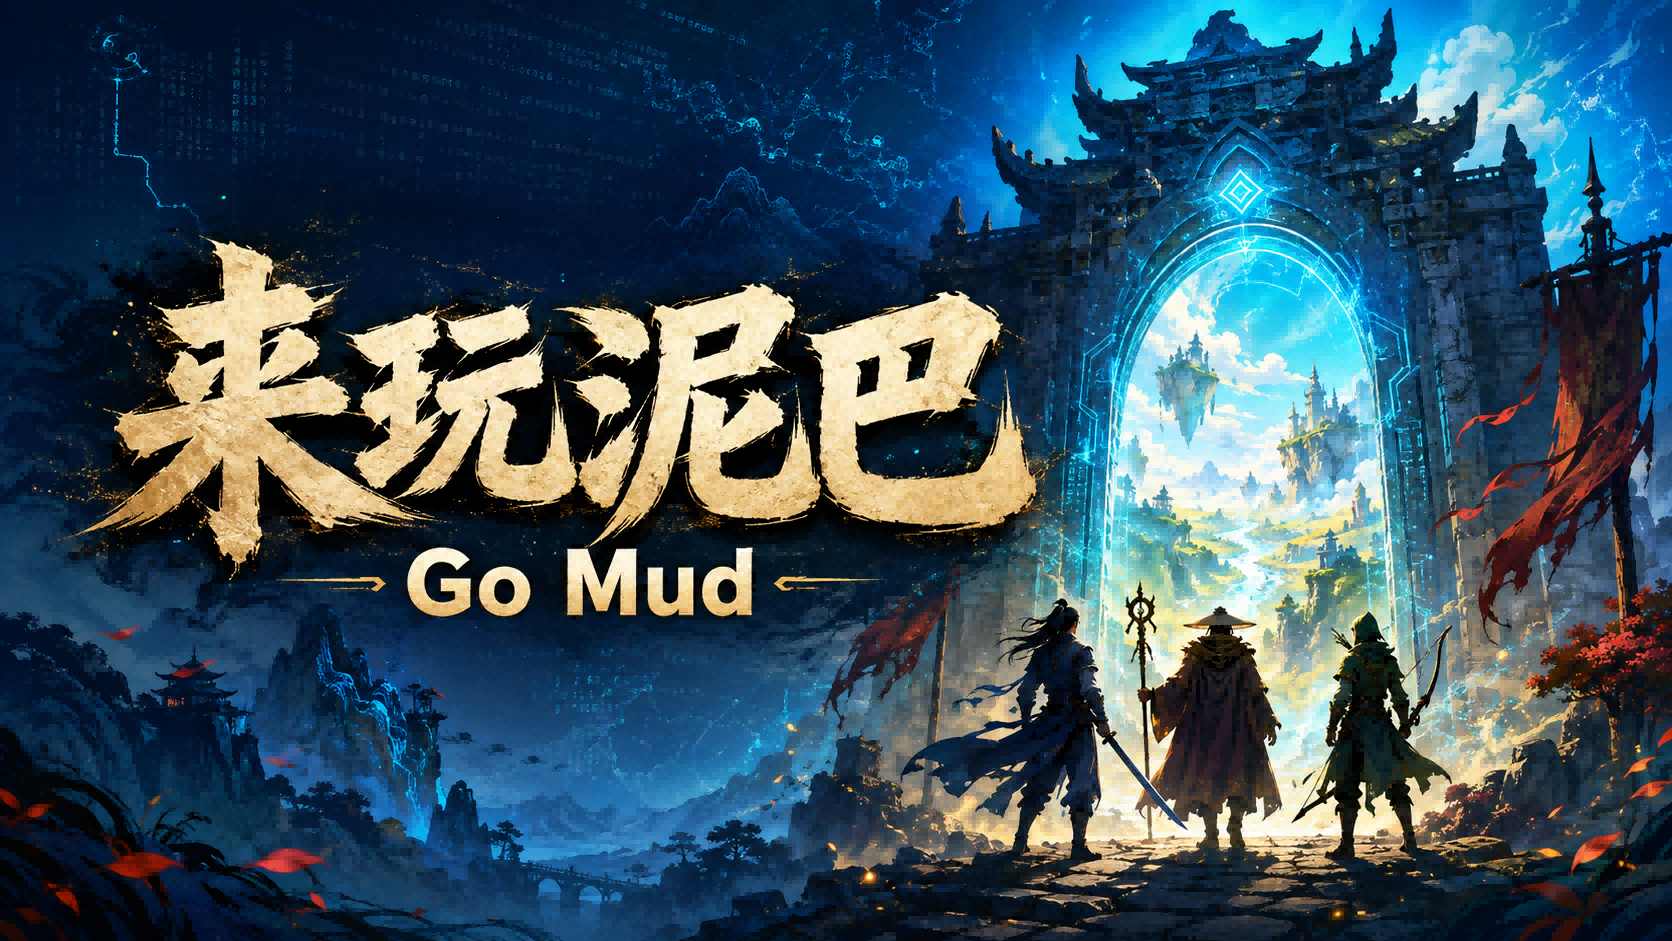
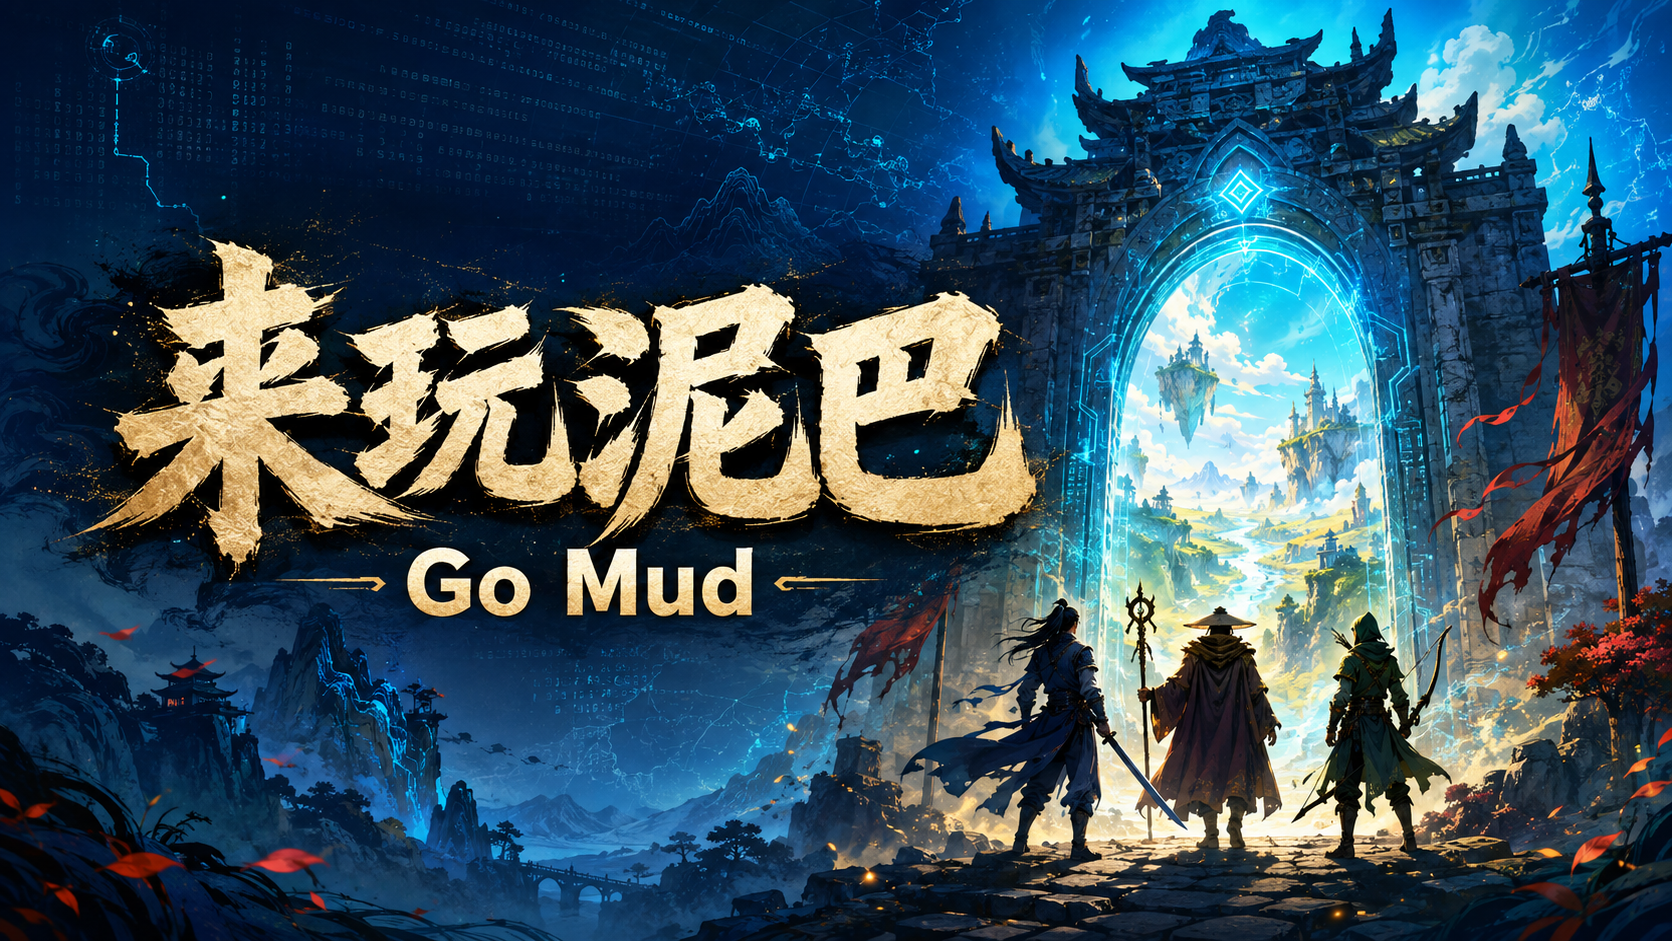
来玩泥巴V1.01
修改了banner设置

diff --git a/server.js b/server.js
@@ -14,6 +14,7 @@ const SESSION_TTL = 12 * 60 * 60 * 1000;
 const PLAYER_TTL = 24 * 60 * 60 * 1000;
 const MAX_BODY = 8 * 1024 * 1024;
 const DEFAULT_GAME_ID = 'ponan-longshe';
+const DEFAULT_BANNER = '/gomudbanner.png';
 const playerSessions = new Map();
 const adminSessions = new Map();
 const mime = { '.html':'text/html; charset=utf-8','.css':'text/css; charset=utf-8','.js':'text/javascript; charset=utf-8','.json':'application/json; charset=utf-8','.png':'image/png','.jpg':'image/jpeg','.jpeg':'image/jpeg','.webp':'image/webp','.svg':'image/svg+xml; charset=utf-8' };
@@ -58,7 +59,8 @@ async function body(req){let raw='';for await(const chunk of req){raw+=chunk;if(
 function safePlayer(req){const token=cookies(req).mud_session,s=playerSessions.get(token);if(!s||Date.now()-s.lastSeen>PLAYER_TTL){if(token)playerSessions.delete(token);return null;}s.lastSeen=Date.now();return s;}
 function safeAdmin(req){const token=cookies(req).mud_admin,s=adminSessions.get(token);if(!s||Date.now()-s.lastSeen>SESSION_TTL){if(token)adminSessions.delete(token);return null;}s.lastSeen=Date.now();return s;}
 function clamp(n,min,max){return Math.max(min,Math.min(max,Number(n)));}
-function gamePublic(g){return {id:g.id,name:g.name,banner:g.banner||'/default-banner.svg',description:g.description,paused:Boolean(g.paused)};}
+function bannerOf(g){return !g.banner||g.banner==='/default-banner.svg'?DEFAULT_BANNER:g.banner;}
+function gamePublic(g){return {id:g.id,name:g.name,banner:bannerOf(g),description:g.description,paused:Boolean(g.paused)};}
 async function findGame(id,{includePaused=false}={}){const db=await load('games.json');const game=db.games.find(x=>x.id===id);return game&&(!game.paused||includePaused)?game:null;}
 
 function defaultRules(){return [
@@ -105,13 +107,13 @@ async function routeApi(req,res,url){
 
   if(req.method==='POST'&&url.pathname==='/api/admin/login'){const data=await body(req),admin=await load('admin.json');if(!verifyPassword(String(data.password||''),admin.passwordHash))return fail(res,401,'管理密码错误');const token=crypto.randomBytes(32).toString('hex');adminSessions.set(token,{lastSeen:Date.now()});setCookie(res,'mud_admin',token);return send(res,200,{ok:true});}
   if(url.pathname.startsWith('/api/admin/')&&!safeAdmin(req))return fail(res,401,'管理员登录已失效');
-  if(req.method==='GET'&&url.pathname==='/api/admin/dashboard'){const [db,md,gd]=await Promise.all([load('accounts.json'),load('models.json'),load('games.json')]);return send(res,200,{ok:true,accounts:accountRows(db.accounts,gd.games),models:md.models.map(x=>({...x,apiKey:undefined,hasKey:true})),games:gd.games.map(x=>({...x,engine:undefined}))});}
+  if(req.method==='GET'&&url.pathname==='/api/admin/dashboard'){const [db,md,gd]=await Promise.all([load('accounts.json'),load('models.json'),load('games.json')]);return send(res,200,{ok:true,accounts:accountRows(db.accounts,gd.games),models:md.models.map(x=>({...x,apiKey:undefined,hasKey:true})),games:gd.games.map(x=>({...x,banner:bannerOf(x),engine:undefined}))});}
   if(req.method==='POST'&&url.pathname==='/api/admin/password'){const data=await body(req),admin=await load('admin.json');if(!verifyPassword(String(data.currentPassword||''),admin.passwordHash))return fail(res,400,'原密码不正确');if(String(data.newPassword||'').length<8)return fail(res,400,'新密码至少8位');admin.passwordHash=hashPassword(data.newPassword);await save('admin.json',admin);return send(res,200,{ok:true});}
   if(req.method==='POST'&&url.pathname==='/api/admin/models'){const data=await body(req);if(![data.name,data.baseUrl,data.model,data.apiKey].every(x=>String(x||'').trim()))return fail(res,400,'请填写完整模型信息');let parsed;try{parsed=new URL(data.baseUrl);}catch{return fail(res,400,'接口地址无效');}if(parsed.protocol!=='https:'&&!(process.env.NODE_ENV!=='production'&&parsed.protocol==='http:'))return fail(res,400,'生产环境接口必须使用 HTTPS');const md=await load('models.json'),item={id:crypto.randomUUID(),name:String(data.name).slice(0,40),baseUrl:parsed.toString().replace(/\/$/,''),model:String(data.model).slice(0,100),apiKey:encrypt(String(data.apiKey)),active:md.models.length===0,createdAt:new Date().toISOString()};md.models.push(item);await save('models.json',md);return send(res,200,{ok:true});}
   const activeMatch=url.pathname.match(/^\/api\/admin\/models\/([^/]+)\/active$/);if(req.method==='POST'&&activeMatch){const md=await load('models.json');if(!md.models.some(x=>x.id===activeMatch[1]))return fail(res,404,'模型不存在');md.models.forEach(x=>x.active=x.id===activeMatch[1]);await save('models.json',md);return send(res,200,{ok:true});}
   const modelDelete=url.pathname.match(/^\/api\/admin\/models\/([^/]+)$/);if(req.method==='DELETE'&&modelDelete){const md=await load('models.json');md.models=md.models.filter(x=>x.id!==modelDelete[1]);await save('models.json',md);return send(res,200,{ok:true});}
   if(req.method==='POST'&&url.pathname==='/api/admin/games'){
-    const data=await body(req),fields=cleanGameInput(data),id=crypto.randomUUID(),banner=await saveBanner(data.bannerData,id);const gd=await load('games.json'),now=new Date().toISOString();gd.games.push({id,...fields,banner:banner||'/default-banner.svg',paused:false,createdAt:now,updatedAt:now});await save('games.json',gd);return send(res,200,{ok:true,id});
+    const data=await body(req),fields=cleanGameInput(data),id=crypto.randomUUID(),banner=await saveBanner(data.bannerData,id);const gd=await load('games.json'),now=new Date().toISOString();gd.games.push({id,...fields,banner:banner||DEFAULT_BANNER,paused:false,createdAt:now,updatedAt:now});await save('games.json',gd);return send(res,200,{ok:true,id});
   }
   const gameMatch=url.pathname.match(/^\/api\/admin\/games\/([^/]+)$/);if(gameMatch&&req.method==='PUT'){const data=await body(req),gd=await load('games.json'),game=gd.games.find(x=>x.id===gameMatch[1]);if(!game)return fail(res,404,'游戏不存在');Object.assign(game,cleanGameInput(data,game));const banner=await saveBanner(data.bannerData,game.id);if(banner)game.banner=banner;game.updatedAt=new Date().toISOString();await save('games.json',gd);return send(res,200,{ok:true});}
   const pauseMatch=url.pathname.match(/^\/api\/admin\/games\/([^/]+)\/pause$/);if(pauseMatch&&req.method==='POST'){const gd=await load('games.json'),game=gd.games.find(x=>x.id===pauseMatch[1]);if(!game)return fail(res,404,'游戏不存在');game.paused=!game.paused;game.updatedAt=new Date().toISOString();await save('games.json',gd);return send(res,200,{ok:true,paused:game.paused});}
@@ -129,6 +131,6 @@ function streamContent(event){const c=event?.choices?.[0]?.delta?.content??event
 async function readProviderStream(response,onNarrative){if(!response.body)return '';const reader=response.body.getReader(),decoder=new TextDecoder();let buffer='',raw='',emitted=0;const processLine=line=>{const t=line.trim();if(!t.startsWith('data:'))return;const data=t.slice(5).trim();if(!data||data==='[DONE]')return;try{raw+=streamContent(JSON.parse(data));const visible=partialNarrative(raw);if(visible.length>emitted){onNarrative(visible.slice(emitted));emitted=visible.length;}}catch{}};while(true){const{value,done}=await reader.read();if(done)break;buffer+=decoder.decode(value,{stream:true});const lines=buffer.split(/\r?\n/);buffer=lines.pop()||'';for(const line of lines)processLine(line);}if(buffer)processLine(buffer);return raw;}
 async function runAiTurn(state,input,game,onNarrative=()=>{}){state=normalizeState(state,game);const md=await load('models.json'),provider=md.models.find(x=>x.active);if(!provider)throw Object.assign(new Error('尚未配置可用的 AI 模型，请联系管理员'),{public:true});const prompt=buildAiPrompt(state,input,game),controller=new AbortController(),timer=setTimeout(()=>controller.abort(),90000);let response,raw='',emitted=0;const emit=t=>{if(t){emitted+=t.length;onNarrative(t);}};const requestBody=stream=>JSON.stringify({model:provider.model,stream,messages:[{role:'system',content:'你是严谨、连续的中文MUD游戏引擎。必须输出合法JSON，不使用Markdown；narrative必须是第一个字段。'},{role:'user',content:prompt}]});try{response=await fetch(chatEndpoint(provider.baseUrl),{method:'POST',signal:controller.signal,headers:{'Content-Type':'application/json',Authorization:`Bearer ${decrypt(provider.apiKey)}`},body:requestBody(true)});if(!response.ok&&[400,404,415,422].includes(response.status)){await response.text();response=await fetch(chatEndpoint(provider.baseUrl),{method:'POST',signal:controller.signal,headers:{'Content-Type':'application/json',Authorization:`Bearer ${decrypt(provider.apiKey)}`},body:requestBody(false)});}if(!response.ok){console.error('AI provider error',response.status,(await response.text()).slice(0,500));throw Object.assign(new Error(`AI 接口返回 ${response.status}`),{public:true});}if((response.headers.get('content-type')||'').includes('text/event-stream'))raw=await readProviderStream(response,emit);else{const envelope=await response.json();raw=envelope.choices?.[0]?.message?.content||'';}}finally{clearTimeout(timer);}if(!raw)throw Object.assign(new Error('AI 未返回有效剧情'),{public:true});let result;try{result=JSON.parse(raw.replace(/^```json\s*|\s*```$/g,''));}catch{throw Object.assign(new Error('AI 返回格式无法解析，请重试'),{public:true});}if(typeof result.narrative!=='string'||!Array.isArray(result.options)||result.options.length!==4)throw Object.assign(new Error('AI 返回的剧情结构不完整，请重试'),{public:true});if(emitted<result.narrative.length)emit(result.narrative.slice(emitted));result.narrative=result.narrative.slice(0,3000);result.options=result.options.map(x=>String(x).slice(0,160));result.longTermSummary=String(result.longTermSummary||state.longTermSummary).slice(0,2400);return result;}
 
-async function serveStatic(req,res,url){let pathname=decodeURIComponent(url.pathname);if(pathname==='/')pathname='/index.html';if(pathname==='/admin')pathname='/admin.html';if(pathname.startsWith('/uploads/')){const name=path.basename(pathname),file=path.join(BANNER_DIR,name);try{const data=await readFile(file);res.writeHead(200,{'Content-Type':mime[path.extname(file)]||'application/octet-stream','Cache-Control':'public, max-age=86400','X-Content-Type-Options':'nosniff'});return res.end(data);}catch{return fail(res,404,'图片不存在');}}const allowed=new Set(['/index.html','/style.css','/hub.css','/stream.css','/app.js','/admin.html','/admin.js','/pnlsbanner.png','/default-banner.svg']);if(!allowed.has(pathname))return fail(res,404,'页面不存在');const file=path.join(ROOT,pathname.slice(1));try{const data=await readFile(file);res.writeHead(200,{'Content-Type':mime[path.extname(file)]||'application/octet-stream','Cache-Control':pathname.match(/\.(png|jpg|webp|svg)$/)?'public, max-age=3600':'no-cache','X-Content-Type-Options':'nosniff','Content-Security-Policy':"default-src 'self'; style-src 'self' 'unsafe-inline'; script-src 'self'; img-src 'self' data:; connect-src 'self'; frame-ancestors 'none'; base-uri 'none'; form-action 'self'"});res.end(data);}catch{fail(res,404,'文件不存在');}}
+async function serveStatic(req,res,url){let pathname=decodeURIComponent(url.pathname);if(pathname==='/')pathname='/index.html';if(pathname==='/admin')pathname='/admin.html';if(pathname.startsWith('/uploads/')){const name=path.basename(pathname),file=path.join(BANNER_DIR,name);try{const data=await readFile(file);res.writeHead(200,{'Content-Type':mime[path.extname(file)]||'application/octet-stream','Cache-Control':'public, max-age=86400','X-Content-Type-Options':'nosniff'});return res.end(data);}catch{return fail(res,404,'图片不存在');}}const allowed=new Set(['/index.html','/style.css','/hub.css','/stream.css','/app.js','/admin.html','/admin.js','/pnlsbanner.png','/gomudbanner.png','/default-banner.svg']);if(!allowed.has(pathname))return fail(res,404,'页面不存在');const file=path.join(ROOT,pathname.slice(1));try{const data=await readFile(file);res.writeHead(200,{'Content-Type':mime[path.extname(file)]||'application/octet-stream','Cache-Control':pathname.match(/\.(png|jpg|webp|svg)$/)?'public, max-age=3600':'no-cache','X-Content-Type-Options':'nosniff','Content-Security-Policy':"default-src 'self'; style-src 'self' 'unsafe-inline'; script-src 'self'; img-src 'self' data:; connect-src 'self'; frame-ancestors 'none'; base-uri 'none'; form-action 'self'"});res.end(data);}catch{fail(res,404,'文件不存在');}}
 const server=http.createServer(async(req,res)=>{const url=new URL(req.url,`http://${req.headers.host||'localhost'}`);try{if(url.pathname.startsWith('/api/'))await routeApi(req,res,url);else await serveStatic(req,res,url);}catch(err){console.error(err);fail(res,err.public?400:500,err.public?err.message:'服务器暂时出了问题，请稍后再试');}});
 server.listen(PORT,'0.0.0.0',()=>console.log(`来玩泥巴已启动：http://0.0.0.0:${PORT}`));

diff --git a/index.html b/index.html
@@ -7,7 +7,7 @@
 </head>
 <body>
   <main class="page-shell">
-    <header id="siteHero" class="hero site-hero"><img src="default-banner.svg" alt="来玩泥巴 MUD游戏集合"><p>一方屏幕，万千世界。选择你的故事，马上开玩。</p></header>
+    <header id="siteHero" class="hero site-hero"><img src="gomudbanner.png" alt="来玩泥巴 MUD游戏集合"><p>一方屏幕，万千世界。选择你的故事，马上开玩。</p></header>
 
     <section id="homeView">
       <div class="home-title"><div><span class="eyebrow">MUD GAME HALL</span><h1>可玩游戏</h1></div><p class="muted">每个世界都由你的选择实时展开</p></div>

diff --git a/README.md b/README.md
@@ -7,7 +7,7 @@
 - 首页16:9题头图与可玩游戏列表
 - 每个游戏独立的题头图、简介、规则和玩家存档
 - 后台表单添加、编辑、暂停、恢复和删除游戏
-- 题头图片支持16:9 PNG、JPG、WebP上传；不上传时使用默认图
+- 题头图片支持16:9 PNG、JPG、WebP上传；不上传时使用与 `index.html` 同目录的 `gomudbanner.png`
 - 默认采用高自由度、主角视角、前20回合新手豁免和每回合四个选项
 - 固定选项与自然语言自由行动并存
 - 普通回合100至200字，重大剧情200至500字

diff --git a/CHANGELOG.md b/CHANGELOG.md
@@ -1,5 +1,11 @@
 # 更新记录
 
+## v2.0.1 默认题头图更新
+
+- 网站首页默认Banner改为同目录下的 `gomudbanner.png`。
+- 后台新增游戏未上传题头图时，同样使用 `gomudbanner.png`。
+- 旧数据中仍指向 `default-banner.svg` 的游戏会自动切换到新默认图。
+
 ## v2.0.0 “来玩泥巴”多游戏版
 
 - 网站由单一《坡南龙蛇》升级为多MUD游戏集合。
